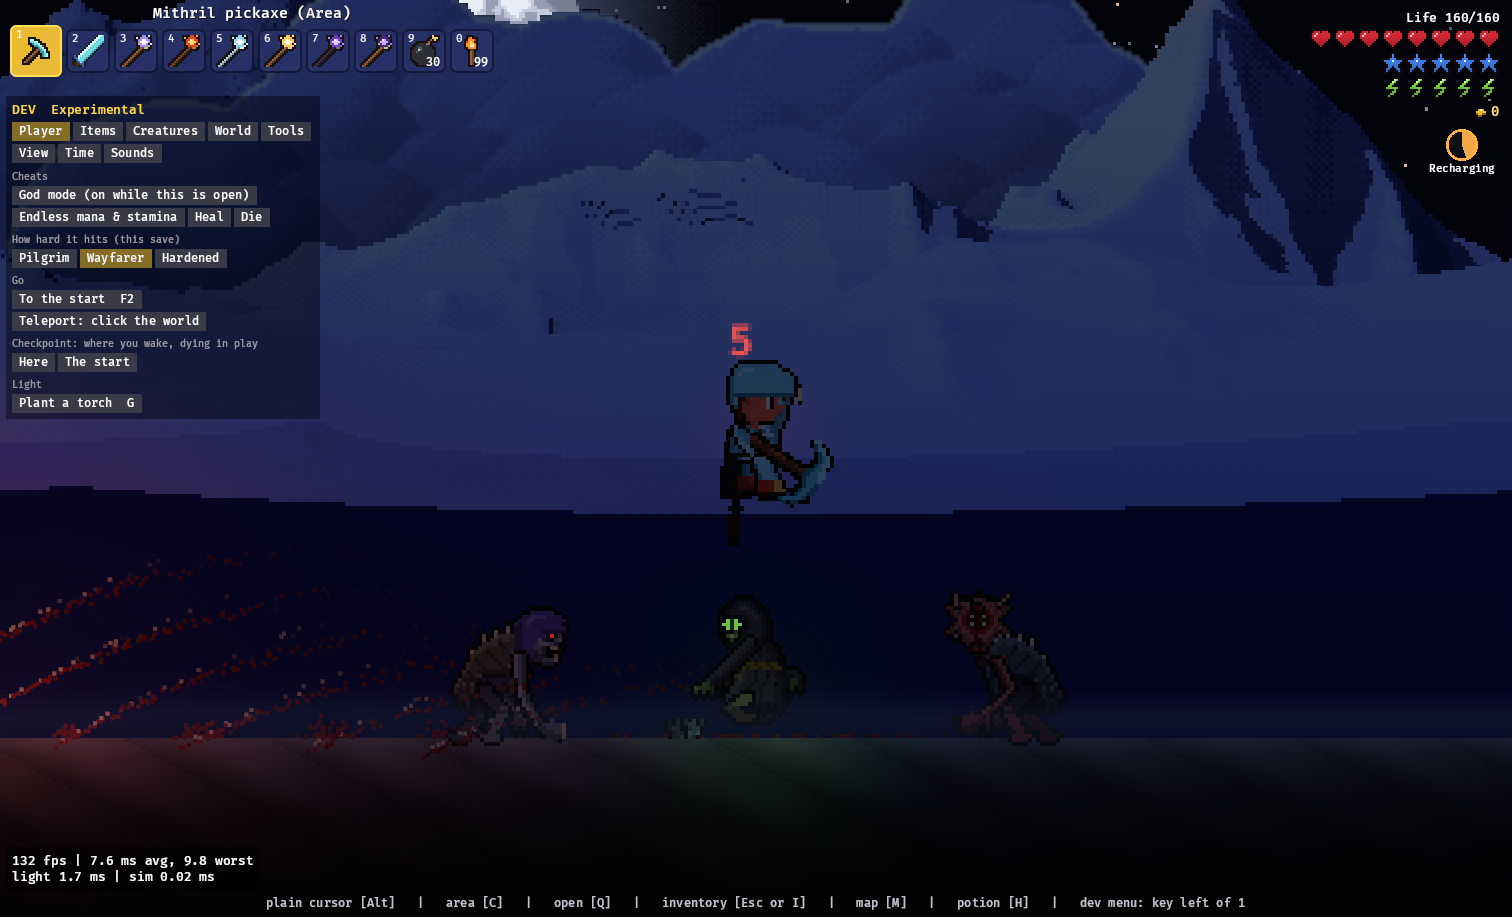
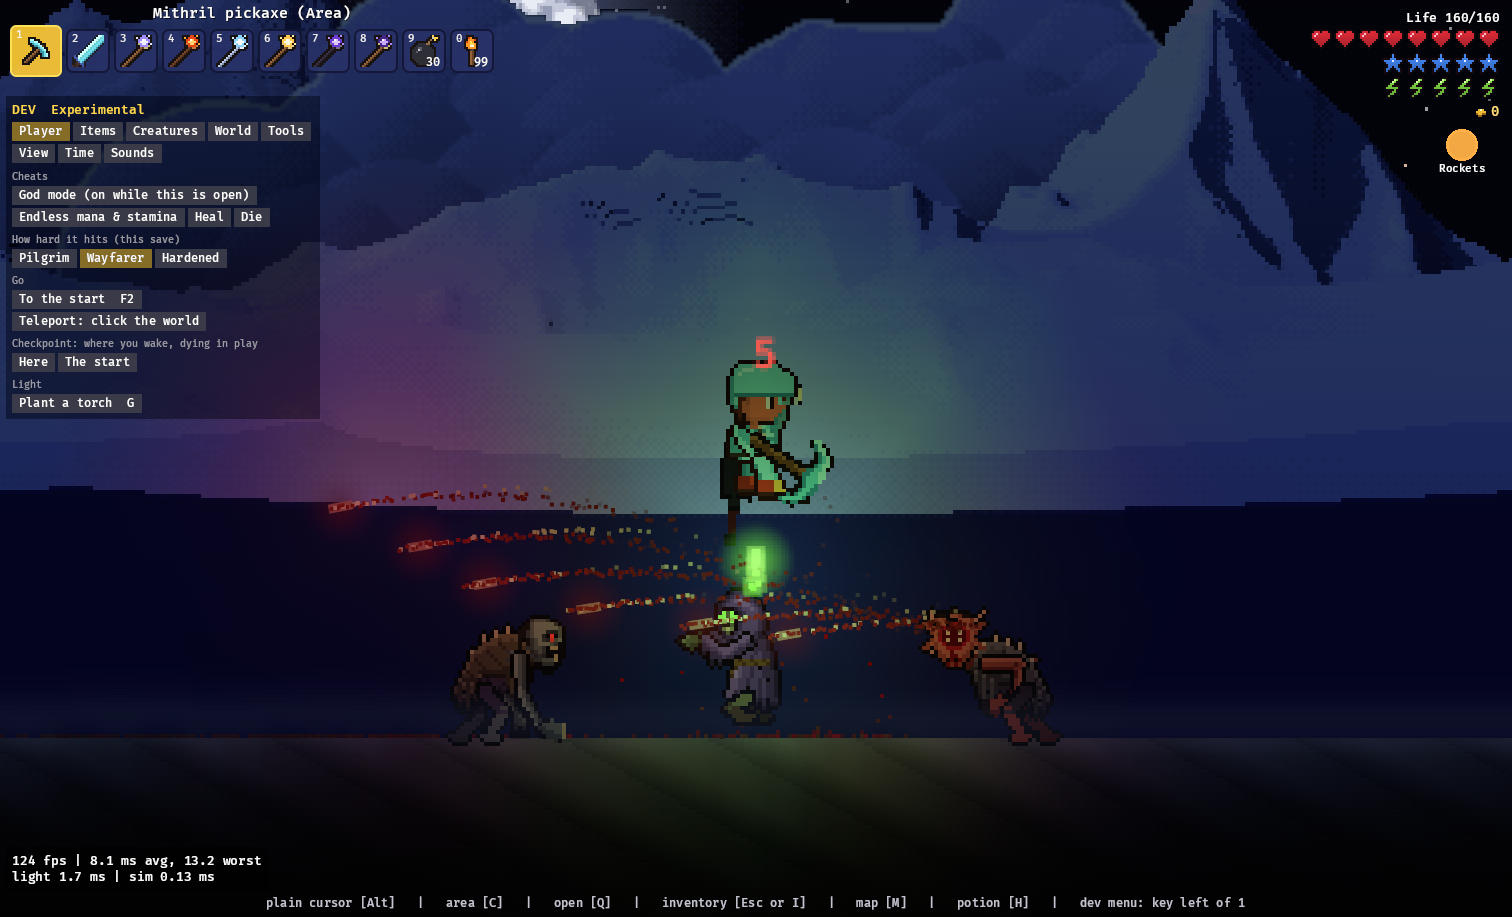
Zombies: bare heads (the crimson head's always its own); the warlock brighter, its face clear as it casts
The crimson head showed a helmet over its split head in most frames
and its own only when it bloomed: it rolled `wears` like the old zombie
(a hood or helm drawn over `head` and `blink`, never `head_bloom`),
and a zombie's body getting up again put back on what was in it
(its loot can be a hood), whatever kind it rose as. Now a creature can
be `bare_head`: nothing rolled or drawn on its head, and a body getting
up as one spills its headgear. The zombie and the crimson head are; no
`wears` on either.

The warlock's robe a lighter, more saturated violet and its green glow
stronger, so it reads at night; its hands gather the grave-light ahead
of its face, not across it. (The red streaks in the lineup are the
crimson head's vomit, as designed: the lineup holds the player in the
air above it.)

diff --git a/crates/game/src/creatures/body/rise.rs b/crates/game/src/creatures/body/rise.rs
@@ -531,23 +531,25 @@ pub fn stand(
         // arm held).
         let left: Vec<Stack> = chests.contents(corpse.key, &sim.world, &items).slots.iter().flatten().copied().collect();
         chests.forget(corpse.key);
+        // (The last time, it may get up something worse: `last`.)
+        let risen = pile.risen + 1;
+        let kind = pile.rise.last.as_ref().filter(|_| pile.rise.times.is_some_and(|t| risen >= t)).unwrap_or(&pile.kind).clone();
+        let def = creatures.get(&kind).cloned().unwrap_or_else(|| pile.def.clone());
         let mut eq = crate::gear::Equipment::default();
         let armless = missing.contains(&super::parts::Limb::Arm(0));
         for s in left {
-            let def = items.def(s.item);
-            let weapon = matches!(def.use_, Use::Melee(_) | Use::Bow(_)) && def.gear.is_some();
+            let def_s = items.def(s.item);
+            let weapon = matches!(def_s.use_, Use::Melee(_) | Use::Bow(_)) && def_s.gear.is_some();
+            // (Nothing on a bare head: a crimson head's is its face.)
+            let headgear = def_s.gear.as_ref().is_some_and(|g| g.slot == crate::gear::Slot::Head);
             if weapon && eq.held.is_none() && !armless {
                 eq.held = Some(s);
-            } else if let Some(i) = def.gear.as_ref().and(eq.slot_for(&items, &s)) {
+            } else if let Some(i) = def_s.gear.as_ref().filter(|_| !(def.bare_head && headgear)).and(eq.slot_for(&items, &s)) {
                 eq.worn[i] = Some(s);
             } else {
                 crate::hands::spawn_drop(&mut commands, &items, pos, s);
             }
         }
-        // (The last time, it may get up something worse: `last`.)
-        let risen = pile.risen + 1;
-        let kind = pile.rise.last.as_ref().filter(|_| pile.rise.times.is_some_and(|t| risen >= t)).unwrap_or(&pile.kind).clone();
-        let def = creatures.get(&kind).cloned().unwrap_or_else(|| pile.def.clone());
         // (Nothing in its hand: what it fights with bare, its fists.)
         let wielding = eq
             .held

diff --git a/crates/game/src/gear/look.rs b/crates/game/src/gear/look.rs
@@ -27,14 +27,15 @@ pub struct Wardrobe(HashMap<String, Arc<CreatureDef>>);
 /// The order skins go on: what's under first.
 const LAYERS: [Slot; 6] = [Slot::Feet, Slot::Legs, Slot::Body, Slot::Hands, Slot::Head, Slot::Trinket];
 
-/// The skins of what's worn, under to over, and a name for the outfit.
-fn outfit<'a>(items: &'a Items, eq: &Equipment) -> (Vec<&'a Skin>, String) {
+/// The skins of what's worn, under to over, and a name for the outfit
+/// (nothing on its head, `bare_head`: none drawn there).
+fn outfit<'a>(items: &'a Items, eq: &Equipment, bare_head: bool) -> (Vec<&'a Skin>, String) {
     let mut skins = Vec::new();
     let mut name = String::new();
     for layer in LAYERS {
         for (i, s) in eq.worn.iter().enumerate() {
             let Some(s) = s else { continue };
-            if WORN[i] != layer {
+            if WORN[i] != layer || (bare_head && layer == Slot::Head) {
                 continue;
             }
             let def = items.def(s.item);
@@ -136,7 +137,7 @@ pub fn dress(
         if base.art_file.is_none() {
             continue;
         }
-        let (mut skins, mut name) = outfit(&items, &eq);
+        let (mut skins, mut name) = outfit(&items, &eq, base.bare_head);
         for l in &lost {
             name.push_str(&format!("-{l:?}"));
         }

diff --git a/crates/game/src/creatures/def.rs b/crates/game/src/creatures/def.rs
@@ -227,6 +227,11 @@ pub struct CreatureDef {
     /// comes into the world, as gear found where it stands.
     #[serde(default)]
     pub wears: Vec<(String, f32)>,
+    /// Nothing goes on its head (its skull is its face: the hunched dead):
+    /// what it would wear there it doesn't (getting up again, it spills),
+    /// and none is drawn on it.
+    #[serde(default)]
+    pub bare_head: bool,
     /// Its loot table (`loot.ron`): rolled into its body when it dies.
     #[serde(default)]
     pub loot: Option<String>,
